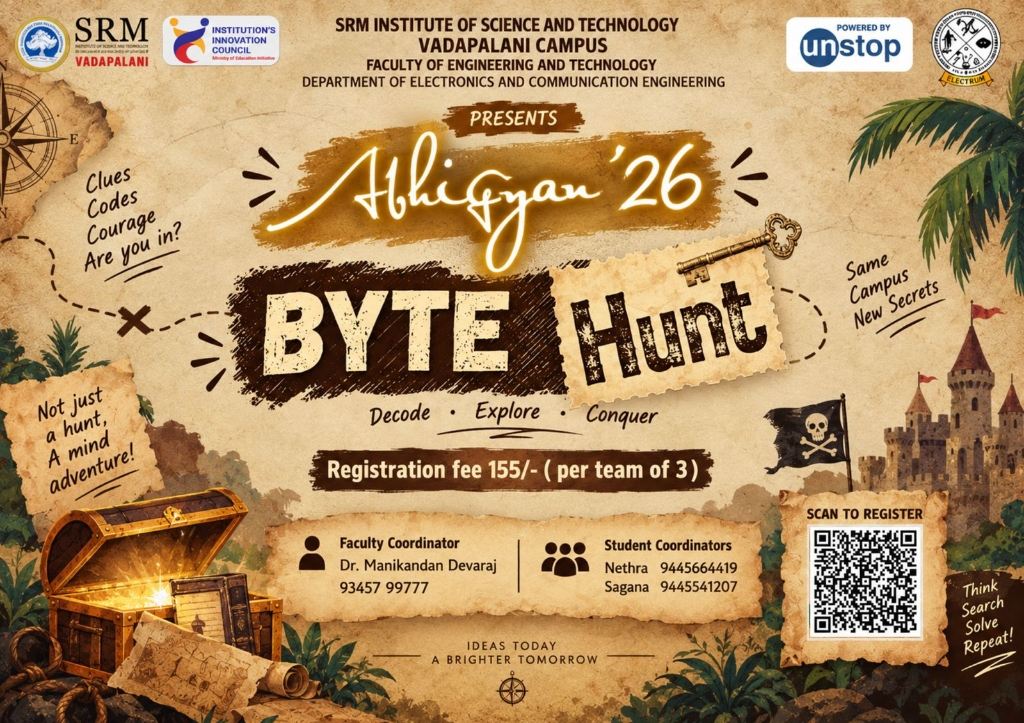
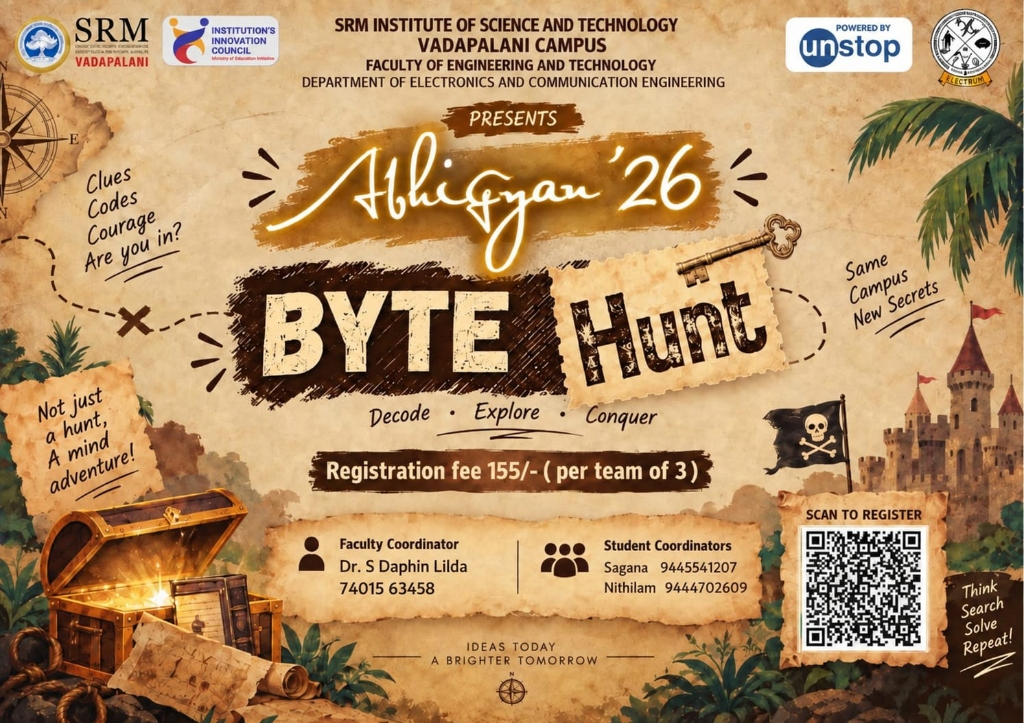
feat: integrate official posters for Binary Bingo, IPL Auction, Byte Hunt, Quantum Imprint and update registration links

diff --git a/js/events.js b/js/events.js
@@ -28,9 +28,10 @@ export const EVENTS_DATA = [
     fee: 'Rs. 140 per team',
     teamSize: 'Team of 2',
     format: 'Creative Poster Making Challenge',
-    faculty: 'Dr. T Jayachitra (+91 99719 28312)',
+    faculty: 'Dr. T.S. Balaji (+91 97107 69781)',
     students: 'Harini S (ECE) [+91 88386 11051], Jaffrine Refina R (ECE DS) [+91 78456 07087]',
     poster: '/assets/posters/quantum_imprint_poster.jpg',
+    regLink: 'https://forms.gle/D1d5Zjf1rsMUjkQo9',
     fullDesc: 'This event is a creative poster-making challenge where participants will be given a specific theme or technical concept and asked to visually represent it through an original poster. The activity will test their creativity, design skills, conceptual understanding, and ability to communicate an idea effectively through visual elements. Participants will work within a given time limit, and the entries will be evaluated based on creativity, relevance to the theme, visual appeal, originality, and clarity of presentation.'
   },
   {
@@ -41,8 +42,9 @@ export const EVENTS_DATA = [
     fee: 'Rs. 150 per team',
     teamSize: 'Team of 3',
     format: 'Bit & Brain 2-Round Technical Game',
-    faculty: 'Dr. P Glaret Subin (94453 81372)',
-    students: 'Bhavana (ECE) [+91 81229 99413], Anju (ECE)',
+    faculty: 'Dr. Glaret Subin (+91 94453 81372)',
+    students: 'Bhavana (ECE) [+91 81229 99413], Anju Elizabeth (ECE) [+91 73053 18781]',
+    poster: '/assets/posters/binary_bingo_poster.jpg',
     fullDesc: 'Bit & Brain is a two-round technical game designed to test participants\u2019 number-system skills, speed, teamwork, and creativity. In Round 1 \u2013 Number System Bingo, participants convert numbers announced in binary, octal, or hexadecimal into decimal and mark the corresponding numbers on their Bingo sheet to complete the required pattern. In Round 2 \u2013 ECE Draw & Guess, participants work in teams where one member draws a whispered ECE-related word without speaking or writing, while the teammates try to guess it within 30 seconds. The team with the highest score in Round 2 wins, making the event a fun combination of technical knowledge, quick thinking, communication, and teamwork.'
   },
   {
@@ -70,7 +72,7 @@ export const EVENTS_DATA = [
     faculty: 'Dr. P Rathinakumar (94862 43234)',
     students: 'Swethaasankari (ECE DS) [+91 99946 59486], Swetha S [+91 98404 44134]',
     poster: '/assets/posters/quantum_bits_poster.jpg',
-    regLink: 'https://docs.google.com/forms/d/e/1FAIpQLScOFA59jcoiRNC1Q8I_o7Gszl7Rl1Pe93HlopUQA1SF_lVZHQ/viewform',
+    regLink: 'https://q.me-qr.com/qh403zow',
     fullDesc: 'Quantum Bits is a three-round technical quiz designed to challenge participants\u2019 technical knowledge, analytical thinking, and ability to connect concepts across quantum technology, electronics, communication, computing, and emerging technologies.'
   },
 
@@ -85,9 +87,10 @@ export const EVENTS_DATA = [
     fee: 'Rs. 155 per team',
     teamSize: 'Team of 3',
     format: 'Campus-Wide Cryptic Treasure Hunt',
-    faculty: 'Dr. Manikandan Devaraj (+91 93457 99777)',
-    students: 'Nethra [+91 94456 64419], Sagana [+91 94455 41207]',
+    faculty: 'Dr. S Daphin Lilda (+91 74015 63458)',
+    students: 'Sagana [+91 94455 41207], Nithilam [+91 94447 02609]',
     poster: '/assets/posters/byte_hunt_poster.jpg',
+    regLink: 'https://docs.google.com/forms/d/e/1FAIpQLSfHb62IaO3Tp2NPZGXmpD9ycHaHur3KopJO-5z_4tlLKMd2xw/viewform',
     fullDesc: 'Clues will be hidden all over the campus and it is upto you to find the clues and crack them. Hints will be provided. Only quick thinking, communication and speed can lead your team to the ultimate treasure!'
   },
   {
@@ -113,7 +116,9 @@ export const EVENTS_DATA = [
     teamSize: 'Team of 4',
     format: 'Live Strategic Budget Bidding',
     faculty: 'Dr. Sanjay Kumar (94574 78916)',
-    students: 'Varun Raj (ECE) [+91 97785 43734], Tharunika (ECE)',
+    students: 'Varun Raj (ECE) [+91 97785 43734], Tharunika (ECE) [+91 78240 21263]',
+    poster: '/assets/posters/ipl_auction_poster.jpg',
+    regLink: 'https://docs.google.com/forms/d/e/1FAIpQLSdKuvzUbCUPtkqLX8cHtc891UDMvr9DYiMp1ut7cp0qdP3wPQ/viewform',
     fullDesc: 'An IPL-based quiz will be conducted to shortlist the top 10 participants for the main event. The shortlisted participants will then take part in a live IPL auction, where they build their own teams using a fixed virtual budget. The event combines cricket knowledge, strategy, bidding, decision-making, and budget management, making it competitive, interactive, and entertaining.'
   },
   {
@@ -141,6 +146,7 @@ export const EVENTS_DATA = [
     faculty: 'Dr. Manikandan Devaraj (+91 93457 99777)',
     students: 'Lathika [+91 80728 52523], Lakshmi [+91 63851 22276]',
     poster: '/assets/posters/muted_mayhem_poster.jpg',
+    regLink: 'https://forms.gle/Rs2yrtPdUZd7kE95A',
     fullDesc: 'Get ready for a chaotic battle of lip-reading, guessing, and hilarious misunderstandings! In Muted Mayhem, one teammate wears headphones with loud music while the others mouth out words or phrases for them to guess within a limited time. With communication completely muted, only teamwork, expressions, and quick thinking can lead your team to victory!'
   },
   {
